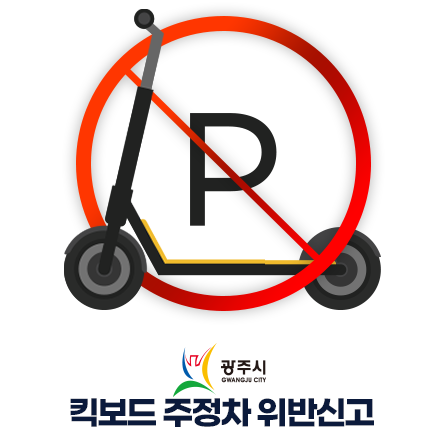
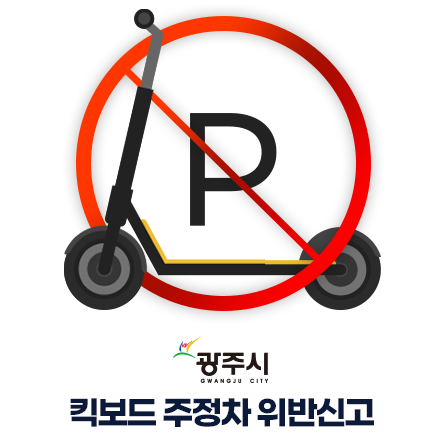
feat :  이미지 변경 및 알람 닫기기능

Changed region(s): [[0.3781, 0.7596, 0.6107, 0.9056]]

diff --git a/src/components/Header.tsx b/src/components/Header.tsx
@@ -61,7 +61,7 @@ export default function Header({ activeTab, setActiveTab }: HeaderProps) {
             <div className="popupconten">
                 <p className="popuptxt">로그인 후 이용하세요</p>
                 <div className="popupbtnset">
-                    <button>확인</button>
+                    <button onClick={(e) => setShowLoginPopup(false)}>확인</button>
                 </div>
             </div>
             <div className="popbg"></div>
